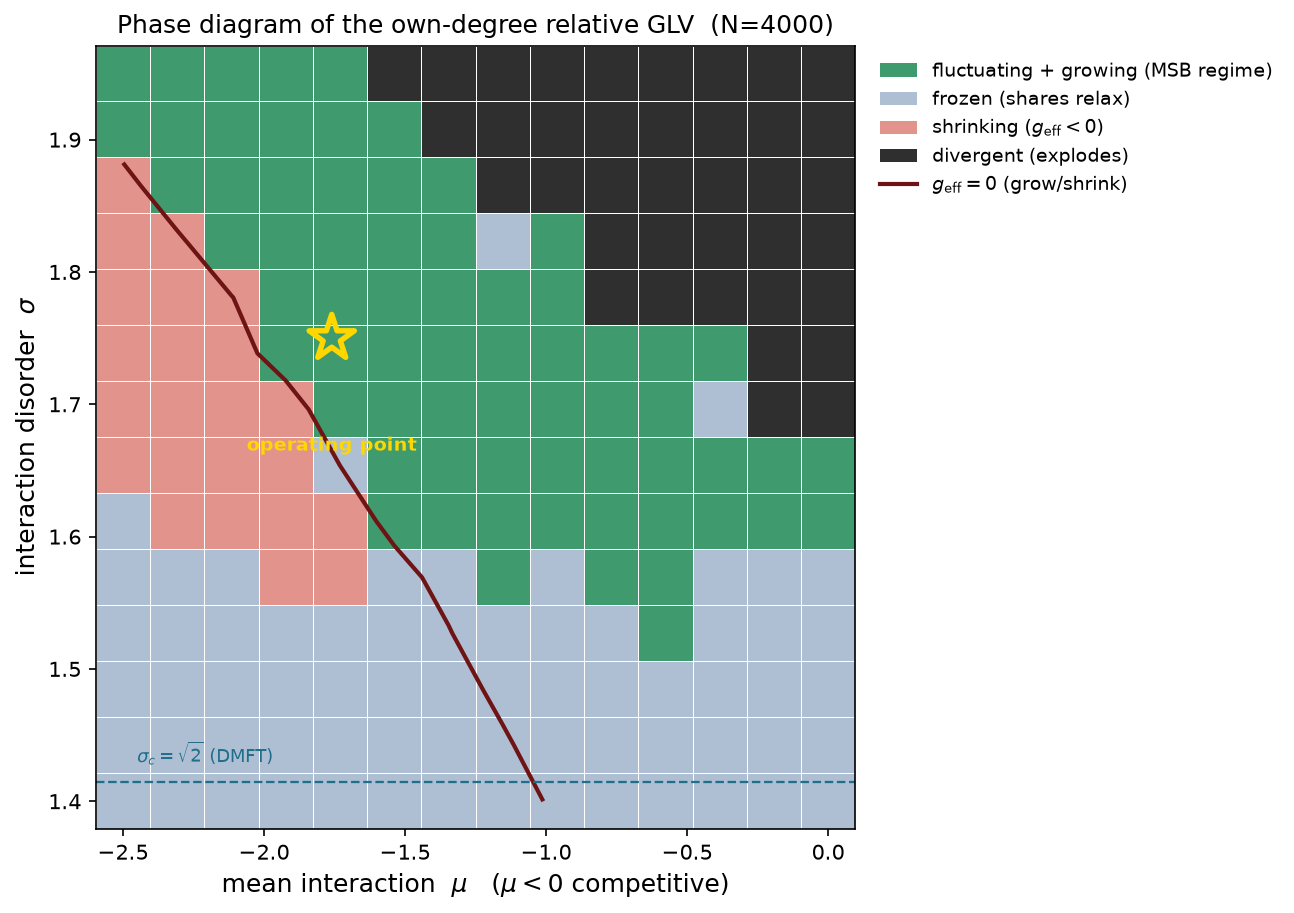
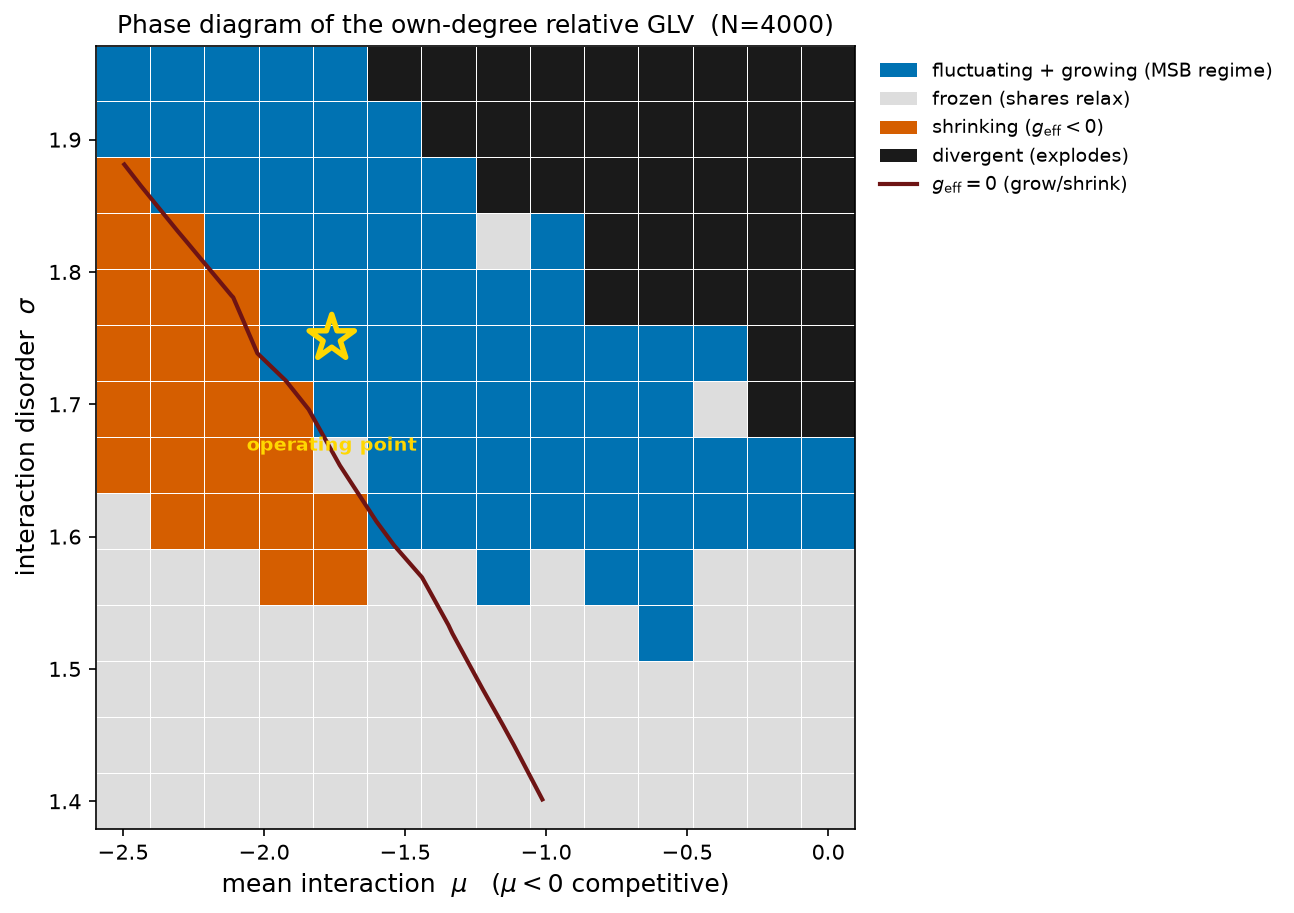
style(phase): drop sigma_c line, recolour with colourblind-safe palette
Remove the DMFT sigma_c=sqrt2 reference line. Recolour the four phases with an
Okabe-Ito palette (blue=MSB fluctuating+growing, gray=frozen, orange=shrinking,
black=divergent) for higher contrast and colourblind safety.

diff --git a/scripts/phase_owndeg_fine.py b/scripts/phase_owndeg_fine.py
@@ -102,7 +102,7 @@ def plot():
 
     # RAW cells -- no despeckle, no interpolation: every square is one measured cell.
     from matplotlib.colors import ListedColormap
-    COLS = ["#aebfd4", "#3f9b6e", "#e2948c", "#2f2f2f"]   # frozen, fluctuating, shrinking, divergent
+    COLS = ["#dddddd", "#0072B2", "#D55E00", "#1a1a1a"]   # frozen, fluctuating, shrinking, divergent
     mu_plot = -mus                                        # mu<0 (competitive) convention
     order = np.argsort(mu_plot)                           # ascending: most competitive on the left
     mu_s = mu_plot[order]; code_s = code[:, order]
@@ -121,9 +121,6 @@ def plot():
     fin = np.isfinite(geff_s)
     geff_s[~fin] = np.nanmax(geff_s[fin]) if fin.any() else 0.0
     ax.contour(mu_s, sig, geff_s, levels=[0.0], colors="#6e1414", linewidths=2.0)
-    ax.axhline(np.sqrt(2), color="#1f6f8b", ls="--", lw=1.1)
-    ax.text(-mus[-1] + 0.05, np.sqrt(2) + 0.012, r"$\sigma_c=\sqrt{2}$ (DMFT)",
-            color="#1f6f8b", fontsize=8.5, va="bottom")
     ax.scatter([-op[0]], [op[1]], marker="*", s=520, edgecolor="gold",
                facecolor="none", linewidth=2.6, zorder=6)
     ax.annotate("operating point", (-op[0], op[1]), (-op[0], op[1] - 0.085),
